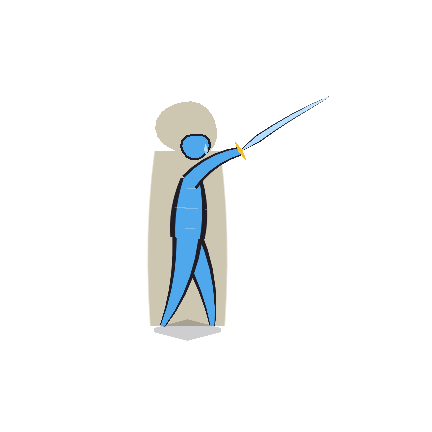
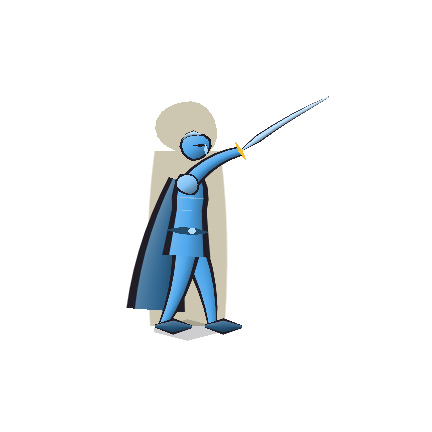
Gleicher Stil, mehr Körper: Licht, Kleidung, ein Boden mit Flecken
Die Figuren wirkten wie Skizzen: jedes Glied ein Strich, jede Figur eine
flache Farbe, der Boden leer.

* Licht von links oben (Palette.LICHT): Tusche.band() färbt die
  Körperreihen eines Strichs mit Kante zum Licht hin heller, davon weg
  dunkler, klecks() über den Randwinkel - null zusätzliche Eckpunkte.
* Kleidung statt Strich: Waffenrock ab unter der Hüfte, Gürtel, Arme mit
  Ellbogen und Kante (die Feinde hatten keine), Stiefel, Stahl an Klingen.
  Je Sorte ein Detail (Kapuzengesicht, Eisenkappe, Köcher, Wappen,
  Schulterstücke und Sehschlitz). Held mit Umhang, Helmkamm und
  Sehschlitz; Warlord mit Umhang, Kamm und Brustplatte.
* Sparfassung: breiterer Rock und ein Arm, kein Gürtel.
* Boden: blasse Erd- und Grasflecken, Grasbüschel in zwei Tönen, seltene
  Blüten.

Gemessen: Vollfassung +32 % Eckpunkte, Sparfassung +11 %; im echten Lauf
(Minute 6, 300 Feinde) _draw 34-37 statt 31-35 ms. Der erste Anlauf rief
die Lichtfunktion je Eckpunkt und kostete +70 % im Netzbau.

Dazu für vergleichbare Schüsse: --saat <n>, und ein Schuss spielt mit
leerem Spielstand und schreibt keinen (vorher trug er die Funde aller
Schüsse davor). App-Symbole neu erzeugt. 30/30 grün, Startlauf und
Lizenzcheck sauber.

Claude-Session: https://claude.ai/code/session_0131VR1KmMqgfNf9f4WYuYp4

diff --git a/CLAUDE.md b/CLAUDE.md
@@ -45,7 +45,7 @@ und die wirft die Silhouette weg. Die Regel verlangte genau das, was das Bild
 in seinem dichtesten Moment nicht mehr liefern konnte. Uebrig blieben achtzig
 gleiche schwarze Umrisse, und einer davon war der Spieler selbst.
 
-Fünf Regeln, die für **jede** neue Zeichnung hier gelten:
+Sechs Regeln, die für **jede** neue Zeichnung hier gelten:
 
 * **Kein Strich hat zwei gleiche Enden.** Ein Band gleicher Breite ist ein
   Klebestreifen; ein Pinsel setzt auf, trägt und hebt ab.
@@ -60,6 +60,30 @@ Fünf Regeln, die für **jede** neue Zeichnung hier gelten:
 * **Jede Figur hat eine Kante und einen Schatten.** Die Kante trennt sie von
   der Figur daneben, der Schatten vom Boden darunter — ohne den schwebt in
   einem Bild ohne Perspektive alles.
+* **Jede Figur hat eine Licht- und eine Schattenseite** (`Palette.LICHT`,
+  von links oben). `Tusche.band()` färbt die Körperreihen eines Strichs mit
+  Kante zum Licht hin heller und davon weg dunkler, `klecks()` ebenso über
+  den Randwinkel — **null zusätzliche Eckpunkte**. Bis Oktober 2026 hatte
+  jede Figur eine flache Farbe, und der Nutzer fand zu Recht, das Bild wirke
+  wie eine Skizze. Dazu tragen die Figuren **Kleidung statt Strich**:
+  Waffenrock, der unter der Hüfte beginnt, Gürtel, Arme mit Ellbogen und
+  Kante, Stiefel; der Held einen Umhang und Helm mit Sehschlitz, der Warlord
+  Umhang, Kamm und Brustplatte.
+
+  **Gemessen, nicht geraten** (je Figur, Höhe 104, Voll/Spar):
+  Strolch 331/160 → 459/187, Ritter 518/200 → 730/227, Warlord 596/200 →
+  997/227, Held 451 → 751. Im echten Lauf (Minute 6, 300 Feinde, gleiche
+  Saat) braucht `_draw` damit 34–37 ms statt 31–35 ms je Bild. Der erste
+  Anlauf rief die Lichtfunktion je Eckpunkt auf und kostete im Netzbau
+  +70 % (300 Sparfiguren 26 → 45 ms); **eine Rechnung je Strich, dazwischen
+  nur `lerp`**. Und die
+  Sparfassung bekam einen Arm (ohne ihn war sie ein Strichmännchen ohne
+  Hände), aber keinen Gürtel — er kostete ein Siebtel der Eckpunkte und war
+  auf zwanzig Bildpunkten nicht zu sehen.
+
+  **Offen:** `_draw` braucht schon vor dem Umbau über 30 ms je Bild bei 300
+  Feinden (in diesem Container, Debug-Build). Für 60 Bilder je Sekunde auf
+  einem Telefon ist das zu viel; das ist ein eigener Posten.
 
 ## Godot beschaffen
 
@@ -139,6 +163,12 @@ xvfb-run -a godot --path . --rendering-driver opengl3 --resolution 720x1600 \
 | `--stufen <n>` | setzt alle vier Bauten auf Stufe n, **den Beutel und die Züge** |
 | `--lage <n>` | zeigt Titel (0), Burg (3), Beutel (4) statt des Laufs |
 | `--neu` | mit `--held`: als erster Lauf, also mit Einstiegshinweis |
+| `--saat <n>` | feste Saat — vorher und nachher zeigen dieselbe Szene |
+
+**Ein Schuss spielt mit leerem Spielstand und schreibt keinen**
+(`Burg.schreibt`). Vorher las er die Funde aller Schüsse davor und
+speicherte seine eigenen: dieselbe Saat gab zwei verschiedene Gefechte, und
+ein Vergleich zweier Zeichnungen war ein Vergleich zweier Läufe.
 
 **`--zeit` führt `Daumen`**, denselben simulierten Daumen wie `tools/probe.gd`.
 Ohne ihn zeigte jeder Schuss denselben Stillstandstod nach vierzehn Sekunden.
